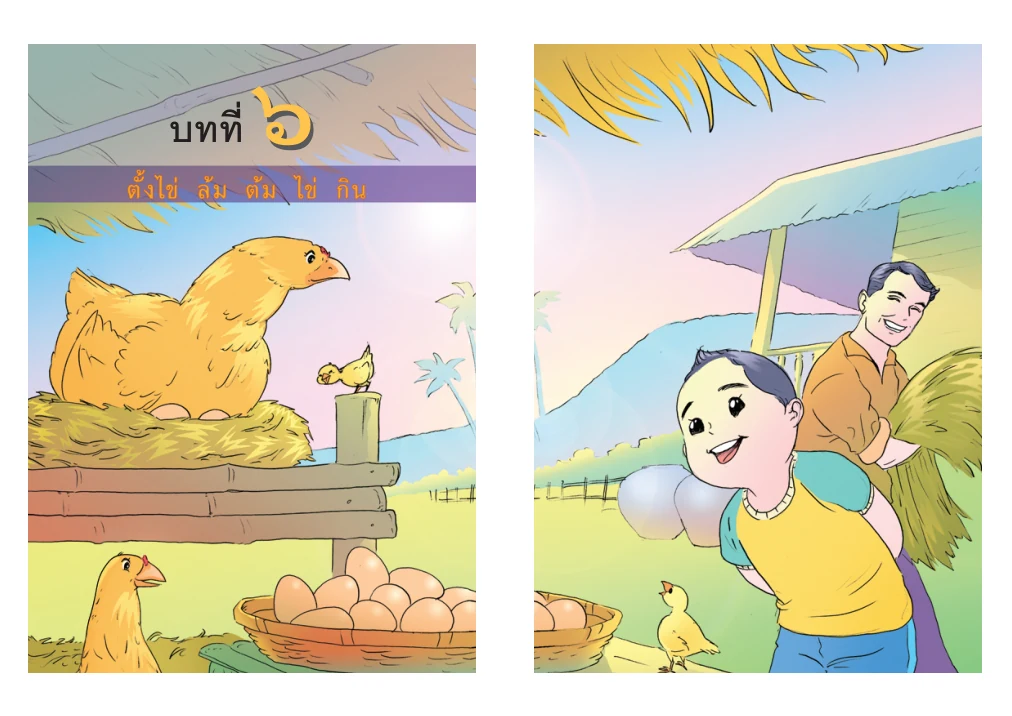
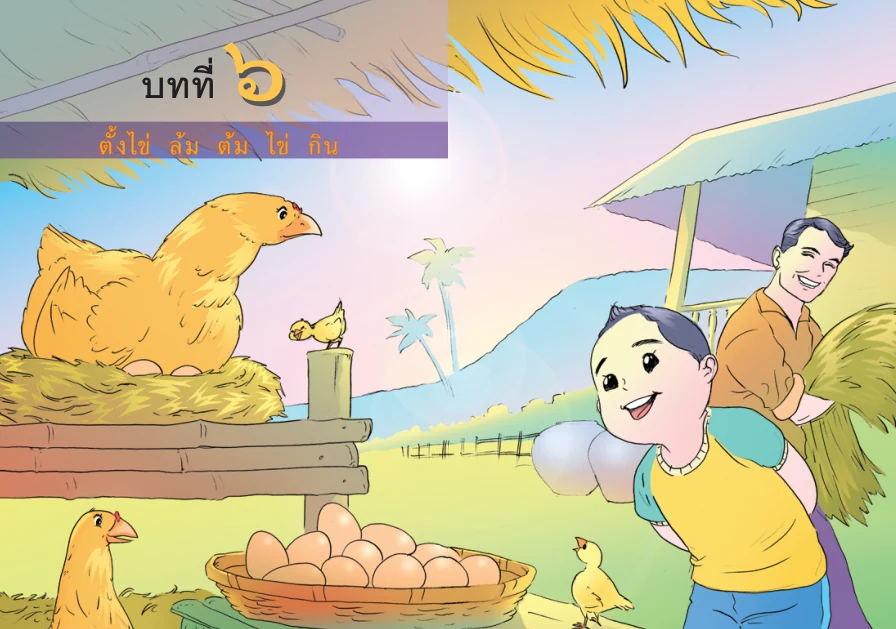
Remove white gutters from all literature cover spreads

diff --git a/P1/index.html b/P1/index.html
@@ -14,7 +14,7 @@
   <link rel="stylesheet" href="/is/P1/child-ui.css?v=20260924-1">
   <script src="/is/P1/child-ui.js?v=20260925-preparation-1" defer></script>
   <link rel="stylesheet" href="unit1-prototype.css?v=20260924-allchapters-1">
-  <link rel="stylesheet" href="literature/pairs.css?v=2">
+  <link rel="stylesheet" href="literature/pairs.css?v=3">
 <script src="course-flow.js?v=20260925-flow-2"></script></head>
 <body>
   <div id="preloadScreen" class="preload-screen preload-complete" role="status" aria-live="polite" aria-busy="false" hidden>
@@ -56,14 +56,14 @@
         <article class="unit-card featured" style="--accent:#58a6d8"><div class="unit-number">01</div><a class="unit-cover" href="lesson.html?unit=1" aria-label="เปิดบท ใบโบก ใบบัว"><img src="book/unit1-cover.webp" alt="ภาพปกคู่บทที่ 1 ใบโบก ใบบัว" loading="lazy"></a><div class="unit-content"><span class="unit-status ready">พร้อมใช้งาน</span><h3>ใบโบก ใบบัว</h3><p>ปูพื้นพยัญชนะไทย บัตรคำ ฟังเรื่อง จับคู่คำกับภาพ และเกมตรวจความเข้าใจ</p><div class="lesson-row"><span>แผนที่ 1</span><strong>รู้จักคำ นำเรื่อง</strong><div class="lesson-actions"><a href="lesson.html?unit=1">เข้าเรียน →</a></div></div></div><div class="workbook-pair"><a href="workbook/?unit=1"><img src="workbook/assets/volume-1.webp" alt="ปกแบบฝึกเล่ม 1" loading="lazy"><span>แบบฝึกเล่ม 1 · บทที่ 1</span></a></div></article>
         <article class="unit-card featured" style="--accent:#6854d9"><div class="unit-number">02</div><a class="unit-cover" href="lesson.html?unit=2" aria-label="เปิดบท ภูผา"><img src="book/unit2-cover.webp" alt="ภาพปกคู่บทที่ 2 ภูผา" loading="lazy"></a><div class="unit-content"><span class="unit-status ready">พร้อมใช้งาน</span><h3>ภูผา</h3><p>รู้จักคำ นำเรื่อง ผ่านเพลง เกมทายภาพ บิงโก และขบวนรถไฟประโยค</p><div class="lesson-row"><span>แผนที่ 1</span><strong>รู้จักคำ นำเรื่อง</strong><div class="lesson-actions"><a class="plan-link" href="plan/02/แผนที่1.docx" download>📄 แผนการสอน</a><a href="lesson.html?unit=2">เข้าเรียน →</a></div></div></div><div class="workbook-pair"><a href="workbook/?unit=2"><img src="workbook/assets/volume-1.webp" alt="ปกแบบฝึกเล่ม 1" loading="lazy"><span>แบบฝึกเล่ม 1 · บทที่ 2</span></a></div></article>
         <article class="unit-card ready-card" style="--accent:#ed8d70"><div class="unit-number">03</div><a class="unit-cover" href="lesson.html?unit=3" aria-label="เปิดบท เพื่อนกัน"><img src="book/unit3-cover.webp" alt="ภาพปกคู่บทที่ 3 เพื่อนกัน" loading="lazy"></a><div class="unit-content"><span class="unit-status ready">พร้อมใช้งาน</span><h3>เพื่อนกัน</h3><p>คำจากบท: ไก่ ลูกช้าง ชู จ้อง ร้อง เรียก เพื่อน เด็ก และฝึกสระ เอ–แอ</p><div class="lesson-row"><span>แผนที่ 1</span><strong>รู้จักคำ นำเรื่อง</strong><div class="lesson-actions"><a href="lesson.html?unit=3">เข้าเรียน →</a></div></div></div><div class="workbook-pair"><a href="workbook/?unit=3"><img src="workbook/assets/volume-1.webp" alt="ปกแบบฝึกเล่ม 1" loading="lazy"><span>แบบฝึกเล่ม 1 · บทที่ 3</span></a></div></article>
-        <article class="unit-card ready-card" style="--accent:#36a489"><div class="unit-number">04</div><a class="unit-cover" href="lesson.html?unit=4" aria-label="เปิดบท ตามหา"><img src="book/unit4-cover.webp" alt="ภาพปกคู่บทที่ 4 ตามหา" loading="lazy"></a><div class="unit-content"><span class="unit-status ready">พร้อมใช้งาน</span><h3>ตามหา</h3><p>คำจากบท: คอ ผูก ลาน อ้อย เล่นน้ำ ลำธาร กระดิ่ง กระพรวน และฝึกสระ โอ–ไอ–ใอ</p><div class="lesson-row"><span>แผนที่ 1</span><strong>รู้จักคำ นำเรื่อง</strong><div class="lesson-actions"><a href="lesson.html?unit=4">เข้าเรียน →</a></div></div></div><div class="literature-pair"><a href="literature/?chapter=1"><img src="literature/assets/cover-1.webp" alt="ปกคู่บทวรรณคดีลำนำ" loading="lazy">📖 วรรณคดีลำนำ 1 · เจ้าเนื้ออ่อน เอย</a></div><div class="workbook-pair"><a href="workbook/?unit=4"><img src="workbook/assets/volume-1.webp" alt="ปกแบบฝึกเล่ม 1" loading="lazy"><span>แบบฝึกเล่ม 1 · บทที่ 4</span></a></div></article>
-        <article class="unit-card ready-card" style="--accent:#e4aa32"><div class="unit-number">05</div><a class="unit-cover" href="lesson.html?unit=5" aria-label="เปิดบท ไปโรงเรียน"><img src="book/unit5-cover.webp" alt="ภาพปกคู่บทที่ 5 ไปโรงเรียน" loading="lazy"></a><div class="unit-content"><span class="unit-status ready">พร้อมใช้งาน</span><h3>ไปโรงเรียน</h3><p>คำจากบท: เข้า หิ้ว เรียน ปิ่นโต กระเป๋า โรงเรียน หนังสือ โบกมือ และฝึกสระ อือ</p><div class="lesson-row"><span>แผนที่ 1</span><strong>รู้จักคำ นำเรื่อง</strong><div class="lesson-actions"><a href="lesson.html?unit=5">เข้าเรียน →</a></div></div></div><div class="literature-pair"><a href="literature/?chapter=2"><img src="literature/assets/cover-2.webp" alt="ปกคู่บทวรรณคดีลำนำ" loading="lazy">📖 วรรณคดีลำนำ 2 · มา เล่น กัน ไหม</a></div><div class="workbook-pair"><a href="workbook/?unit=5"><img src="workbook/assets/volume-1.webp" alt="ปกแบบฝึกเล่ม 1" loading="lazy"><span>แบบฝึกเล่ม 1 · บทที่ 5</span></a></div></article>
-        <article class="unit-card ready-card" style="--accent:#4b9ed8"><div class="unit-number">06</div><a class="unit-cover" href="lesson.html?unit=6" aria-label="เปิดบท โรงเรียนลูกช้าง"><img src="book/unit6-cover.webp" alt="ภาพปกคู่บทที่ 6 โรงเรียนลูกช้าง" loading="lazy"></a><div class="unit-content"><span class="unit-status ready">พร้อมใช้งาน</span><h3>โรงเรียนลูกช้าง</h3><p>คำจากบท: แถว เชือก กล้วย หมู่บ้าน ควาญช้าง วงกลม และฝึกสระ เอีย–อัว</p><div class="lesson-row"><span>แผนที่ 1</span><strong>รู้จักคำ นำเรื่อง</strong><div class="lesson-actions"><a href="lesson.html?unit=6">เข้าเรียน →</a></div></div></div><div class="literature-pair"><a href="literature/?chapter=3"><img src="literature/assets/cover-3.webp" alt="ปกคู่บทวรรณคดีลำนำ" loading="lazy">📖 วรรณคดีลำนำ 3 · ของ เธอ ของ ฉัน</a></div><div class="workbook-pair"><a href="workbook/?unit=6"><img src="workbook/assets/volume-1.webp" alt="ปกแบบฝึกเล่ม 1" loading="lazy"><span>แบบฝึกเล่ม 1 · บทที่ 6</span></a></div></article>
-        <article class="unit-card ready-card" style="--accent:#e96d93"><div class="unit-number">07</div><a class="unit-cover seamless-cover" href="lesson.html?unit=7" aria-label="เปิดบท เพื่อนรัก เพื่อนเล่น"><span class="cover-half"><img src="book/unit7-cover.webp" alt="ภาพปกคู่บทที่ 7 เพื่อนรัก เพื่อนเล่น" loading="lazy"></span><span class="cover-half cover-right" aria-hidden="true"><img src="book/unit7-cover.webp" alt="" loading="lazy"></span></a><div class="unit-content"><span class="unit-status ready">พร้อมใช้งาน</span><h3>เพื่อนรัก เพื่อนเล่น</h3><p>รู้จักคำ ฝึกอ่านคาราโอเกะ อ่านคล่องร้องเล่น และเกมทบทวน</p><div class="lesson-row"><span>บทที่ 7</span><strong>ภาพและบทอ่านจากต้นฉบับ</strong><div class="lesson-actions"><a href="lesson.html?unit=7">เข้าเรียน →</a></div></div></div><div class="literature-pair"><a href="literature/?chapter=4"><img src="literature/assets/cover-4.webp" alt="ปกคู่บทวรรณคดีลำนำ" loading="lazy">📖 วรรณคดีลำนำ 4 · ฝน ตก แดด ออก</a></div><div class="workbook-pair"><a href="workbook/?unit=7"><img src="workbook/assets/volume-2.webp" alt="ปกแบบฝึกเล่ม 2" loading="lazy"><span>แบบฝึกเล่ม 2 · บทที่ 7</span></a></div></article>
-        <article class="unit-card ready-card" style="--accent:#9471d4"><div class="unit-number">08</div><a class="unit-cover seamless-cover" href="lesson.html?unit=8" aria-label="เปิดบท พูดเพราะ"><span class="cover-half"><img src="book/unit8-cover.webp" alt="ภาพปกคู่บทที่ 8 พูดเพราะ" loading="lazy"></span><span class="cover-half cover-right" aria-hidden="true"><img src="book/unit8-cover.webp" alt="" loading="lazy"></span></a><div class="unit-content"><span class="unit-status ready">พร้อมใช้งาน</span><h3>พูดเพราะ</h3><p>รู้จักคำ ฝึกอ่านคาราโอเกะ อ่านคล่องร้องเล่น และเกมทบทวน</p><div class="lesson-row"><span>บทที่ 8</span><strong>ภาพและบทอ่านจากต้นฉบับ</strong><div class="lesson-actions"><a href="lesson.html?unit=8">เข้าเรียน →</a></div></div></div><div class="literature-pair"><a href="literature/?chapter=5"><img src="literature/assets/cover-5.webp" alt="ปกคู่บทวรรณคดีลำนำ" loading="lazy">📖 วรรณคดีลำนำ 5 · เรา รัก เมืองไทย</a></div><div class="workbook-pair"><a href="workbook/?unit=8"><img src="workbook/assets/volume-2.webp" alt="ปกแบบฝึกเล่ม 2" loading="lazy"><span>แบบฝึกเล่ม 2 · บทที่ 8</span></a></div></article>
-        <article class="unit-card ready-card" style="--accent:#43aa72"><div class="unit-number">09</div><a class="unit-cover seamless-cover" href="lesson.html?unit=9" aria-label="เปิดบท เกือบไป"><span class="cover-half"><img src="book/unit9-cover.webp" alt="ภาพปกคู่บทที่ 9 เกือบไป" loading="lazy"></span><span class="cover-half cover-right" aria-hidden="true"><img src="book/unit9-cover.webp" alt="" loading="lazy"></span></a><div class="unit-content"><span class="unit-status ready">พร้อมใช้งาน</span><h3>เกือบไป</h3><p>รู้จักคำ ฝึกอ่านคาราโอเกะ อ่านคล่องร้องเล่น และเกมทบทวน</p><div class="lesson-row"><span>บทที่ 9</span><strong>ภาพและบทอ่านจากต้นฉบับ</strong><div class="lesson-actions"><a href="lesson.html?unit=9">เข้าเรียน →</a></div></div></div><div class="literature-pair"><a href="literature/?chapter=6"><img src="literature/assets/cover-6.webp" alt="ปกคู่บทวรรณคดีลำนำ" loading="lazy">📖 วรรณคดีลำนำ 6 · ตั้งไข่ ล้ม ต้ม ไข่ กิน</a></div><div class="workbook-pair"><a href="workbook/?unit=9"><img src="workbook/assets/volume-2.webp" alt="ปกแบบฝึกเล่ม 2" loading="lazy"><span>แบบฝึกเล่ม 2 · บทที่ 9</span></a></div></article>
-        <article class="unit-card ready-card" style="--accent:#df7b5e"><div class="unit-number">10</div><a class="unit-cover seamless-cover" href="lesson.html?unit=10" aria-label="เปิดบท เพื่อนรู้ใจ"><span class="cover-half"><img src="book/unit10-cover.webp" alt="ภาพปกคู่บทที่ 10 เพื่อนรู้ใจ" loading="lazy"></span><span class="cover-half cover-right" aria-hidden="true"><img src="book/unit10-cover.webp" alt="" loading="lazy"></span></a><div class="unit-content"><span class="unit-status ready">พร้อมใช้งาน</span><h3>เพื่อนรู้ใจ</h3><p>รู้จักคำ ฝึกอ่านคาราโอเกะ อ่านคล่องร้องเล่น และเกมทบทวน</p><div class="lesson-row"><span>บทที่ 10</span><strong>ภาพและบทอ่านจากต้นฉบับ</strong><div class="lesson-actions"><a href="lesson.html?unit=10">เข้าเรียน →</a></div></div></div><div class="literature-pair"><a href="literature/?chapter=7"><img src="literature/assets/cover-7.webp" alt="ปกคู่บทวรรณคดีลำนำ" loading="lazy">📖 วรรณคดีลำนำ 7 · แมว เหมียว</a></div><div class="workbook-pair"><a href="workbook/?unit=10"><img src="workbook/assets/volume-2.webp" alt="ปกแบบฝึกเล่ม 2" loading="lazy"><span>แบบฝึกเล่ม 2 · บทที่ 10</span></a></div></article>
-        <article class="unit-card ready-card" style="--accent:#5f9bc6"><div class="unit-number">11</div><a class="unit-cover seamless-cover" href="lesson.html?unit=11" aria-label="เปิดบท ช้างน้อยน่ารัก"><span class="cover-half"><img src="book/unit11-cover.webp" alt="ภาพปกคู่บทที่ 11 ช้างน้อยน่ารัก" loading="lazy"></span><span class="cover-half cover-right" aria-hidden="true"><img src="book/unit11-cover.webp" alt="" loading="lazy"></span></a><div class="unit-content"><span class="unit-status ready">พร้อมใช้งาน</span><h3>ช้างน้อยน่ารัก</h3><p>รู้จักคำ ฝึกอ่านคาราโอเกะ อ่านคล่องร้องเล่น และเกมทบทวน</p><div class="lesson-row"><span>บทที่ 11</span><strong>ภาพและบทอ่านจากต้นฉบับ</strong><div class="lesson-actions"><a href="lesson.html?unit=11">เข้าเรียน →</a></div></div></div><div class="literature-pair"><a href="literature/?chapter=8"><img src="literature/assets/cover-8.webp" alt="ปกคู่บทวรรณคดีลำนำ" loading="lazy">📖 วรรณคดีลำนำ 8 · กระต่าย กับ เต่า</a></div><div class="workbook-pair"><a href="workbook/?unit=11"><img src="workbook/assets/volume-2.webp" alt="ปกแบบฝึกเล่ม 2" loading="lazy"><span>แบบฝึกเล่ม 2 · บทที่ 11</span></a></div></article>
+        <article class="unit-card ready-card" style="--accent:#36a489"><div class="unit-number">04</div><a class="unit-cover" href="lesson.html?unit=4" aria-label="เปิดบท ตามหา"><img src="book/unit4-cover.webp" alt="ภาพปกคู่บทที่ 4 ตามหา" loading="lazy"></a><div class="unit-content"><span class="unit-status ready">พร้อมใช้งาน</span><h3>ตามหา</h3><p>คำจากบท: คอ ผูก ลาน อ้อย เล่นน้ำ ลำธาร กระดิ่ง กระพรวน และฝึกสระ โอ–ไอ–ใอ</p><div class="lesson-row"><span>แผนที่ 1</span><strong>รู้จักคำ นำเรื่อง</strong><div class="lesson-actions"><a href="lesson.html?unit=4">เข้าเรียน →</a></div></div></div><div class="literature-pair"><a href="literature/?chapter=1"><img src="literature/assets/cover-1.webp?v=2" alt="ปกคู่บทวรรณคดีลำนำ" loading="lazy">📖 วรรณคดีลำนำ 1 · เจ้าเนื้ออ่อน เอย</a></div><div class="workbook-pair"><a href="workbook/?unit=4"><img src="workbook/assets/volume-1.webp" alt="ปกแบบฝึกเล่ม 1" loading="lazy"><span>แบบฝึกเล่ม 1 · บทที่ 4</span></a></div></article>
+        <article class="unit-card ready-card" style="--accent:#e4aa32"><div class="unit-number">05</div><a class="unit-cover" href="lesson.html?unit=5" aria-label="เปิดบท ไปโรงเรียน"><img src="book/unit5-cover.webp" alt="ภาพปกคู่บทที่ 5 ไปโรงเรียน" loading="lazy"></a><div class="unit-content"><span class="unit-status ready">พร้อมใช้งาน</span><h3>ไปโรงเรียน</h3><p>คำจากบท: เข้า หิ้ว เรียน ปิ่นโต กระเป๋า โรงเรียน หนังสือ โบกมือ และฝึกสระ อือ</p><div class="lesson-row"><span>แผนที่ 1</span><strong>รู้จักคำ นำเรื่อง</strong><div class="lesson-actions"><a href="lesson.html?unit=5">เข้าเรียน →</a></div></div></div><div class="literature-pair"><a href="literature/?chapter=2"><img src="literature/assets/cover-2.webp?v=2" alt="ปกคู่บทวรรณคดีลำนำ" loading="lazy">📖 วรรณคดีลำนำ 2 · มา เล่น กัน ไหม</a></div><div class="workbook-pair"><a href="workbook/?unit=5"><img src="workbook/assets/volume-1.webp" alt="ปกแบบฝึกเล่ม 1" loading="lazy"><span>แบบฝึกเล่ม 1 · บทที่ 5</span></a></div></article>
+        <article class="unit-card ready-card" style="--accent:#4b9ed8"><div class="unit-number">06</div><a class="unit-cover" href="lesson.html?unit=6" aria-label="เปิดบท โรงเรียนลูกช้าง"><img src="book/unit6-cover.webp" alt="ภาพปกคู่บทที่ 6 โรงเรียนลูกช้าง" loading="lazy"></a><div class="unit-content"><span class="unit-status ready">พร้อมใช้งาน</span><h3>โรงเรียนลูกช้าง</h3><p>คำจากบท: แถว เชือก กล้วย หมู่บ้าน ควาญช้าง วงกลม และฝึกสระ เอีย–อัว</p><div class="lesson-row"><span>แผนที่ 1</span><strong>รู้จักคำ นำเรื่อง</strong><div class="lesson-actions"><a href="lesson.html?unit=6">เข้าเรียน →</a></div></div></div><div class="literature-pair"><a href="literature/?chapter=3"><img src="literature/assets/cover-3.webp?v=2" alt="ปกคู่บทวรรณคดีลำนำ" loading="lazy">📖 วรรณคดีลำนำ 3 · ของ เธอ ของ ฉัน</a></div><div class="workbook-pair"><a href="workbook/?unit=6"><img src="workbook/assets/volume-1.webp" alt="ปกแบบฝึกเล่ม 1" loading="lazy"><span>แบบฝึกเล่ม 1 · บทที่ 6</span></a></div></article>
+        <article class="unit-card ready-card" style="--accent:#e96d93"><div class="unit-number">07</div><a class="unit-cover seamless-cover" href="lesson.html?unit=7" aria-label="เปิดบท เพื่อนรัก เพื่อนเล่น"><span class="cover-half"><img src="book/unit7-cover.webp" alt="ภาพปกคู่บทที่ 7 เพื่อนรัก เพื่อนเล่น" loading="lazy"></span><span class="cover-half cover-right" aria-hidden="true"><img src="book/unit7-cover.webp" alt="" loading="lazy"></span></a><div class="unit-content"><span class="unit-status ready">พร้อมใช้งาน</span><h3>เพื่อนรัก เพื่อนเล่น</h3><p>รู้จักคำ ฝึกอ่านคาราโอเกะ อ่านคล่องร้องเล่น และเกมทบทวน</p><div class="lesson-row"><span>บทที่ 7</span><strong>ภาพและบทอ่านจากต้นฉบับ</strong><div class="lesson-actions"><a href="lesson.html?unit=7">เข้าเรียน →</a></div></div></div><div class="literature-pair"><a href="literature/?chapter=4"><img src="literature/assets/cover-4.webp?v=2" alt="ปกคู่บทวรรณคดีลำนำ" loading="lazy">📖 วรรณคดีลำนำ 4 · ฝน ตก แดด ออก</a></div><div class="workbook-pair"><a href="workbook/?unit=7"><img src="workbook/assets/volume-2.webp" alt="ปกแบบฝึกเล่ม 2" loading="lazy"><span>แบบฝึกเล่ม 2 · บทที่ 7</span></a></div></article>
+        <article class="unit-card ready-card" style="--accent:#9471d4"><div class="unit-number">08</div><a class="unit-cover seamless-cover" href="lesson.html?unit=8" aria-label="เปิดบท พูดเพราะ"><span class="cover-half"><img src="book/unit8-cover.webp" alt="ภาพปกคู่บทที่ 8 พูดเพราะ" loading="lazy"></span><span class="cover-half cover-right" aria-hidden="true"><img src="book/unit8-cover.webp" alt="" loading="lazy"></span></a><div class="unit-content"><span class="unit-status ready">พร้อมใช้งาน</span><h3>พูดเพราะ</h3><p>รู้จักคำ ฝึกอ่านคาราโอเกะ อ่านคล่องร้องเล่น และเกมทบทวน</p><div class="lesson-row"><span>บทที่ 8</span><strong>ภาพและบทอ่านจากต้นฉบับ</strong><div class="lesson-actions"><a href="lesson.html?unit=8">เข้าเรียน →</a></div></div></div><div class="literature-pair"><a href="literature/?chapter=5"><img src="literature/assets/cover-5.webp?v=2" alt="ปกคู่บทวรรณคดีลำนำ" loading="lazy">📖 วรรณคดีลำนำ 5 · เรา รัก เมืองไทย</a></div><div class="workbook-pair"><a href="workbook/?unit=8"><img src="workbook/assets/volume-2.webp" alt="ปกแบบฝึกเล่ม 2" loading="lazy"><span>แบบฝึกเล่ม 2 · บทที่ 8</span></a></div></article>
+        <article class="unit-card ready-card" style="--accent:#43aa72"><div class="unit-number">09</div><a class="unit-cover seamless-cover" href="lesson.html?unit=9" aria-label="เปิดบท เกือบไป"><span class="cover-half"><img src="book/unit9-cover.webp" alt="ภาพปกคู่บทที่ 9 เกือบไป" loading="lazy"></span><span class="cover-half cover-right" aria-hidden="true"><img src="book/unit9-cover.webp" alt="" loading="lazy"></span></a><div class="unit-content"><span class="unit-status ready">พร้อมใช้งาน</span><h3>เกือบไป</h3><p>รู้จักคำ ฝึกอ่านคาราโอเกะ อ่านคล่องร้องเล่น และเกมทบทวน</p><div class="lesson-row"><span>บทที่ 9</span><strong>ภาพและบทอ่านจากต้นฉบับ</strong><div class="lesson-actions"><a href="lesson.html?unit=9">เข้าเรียน →</a></div></div></div><div class="literature-pair"><a href="literature/?chapter=6"><img src="literature/assets/cover-6.webp?v=2" alt="ปกคู่บทวรรณคดีลำนำ" loading="lazy">📖 วรรณคดีลำนำ 6 · ตั้งไข่ ล้ม ต้ม ไข่ กิน</a></div><div class="workbook-pair"><a href="workbook/?unit=9"><img src="workbook/assets/volume-2.webp" alt="ปกแบบฝึกเล่ม 2" loading="lazy"><span>แบบฝึกเล่ม 2 · บทที่ 9</span></a></div></article>
+        <article class="unit-card ready-card" style="--accent:#df7b5e"><div class="unit-number">10</div><a class="unit-cover seamless-cover" href="lesson.html?unit=10" aria-label="เปิดบท เพื่อนรู้ใจ"><span class="cover-half"><img src="book/unit10-cover.webp" alt="ภาพปกคู่บทที่ 10 เพื่อนรู้ใจ" loading="lazy"></span><span class="cover-half cover-right" aria-hidden="true"><img src="book/unit10-cover.webp" alt="" loading="lazy"></span></a><div class="unit-content"><span class="unit-status ready">พร้อมใช้งาน</span><h3>เพื่อนรู้ใจ</h3><p>รู้จักคำ ฝึกอ่านคาราโอเกะ อ่านคล่องร้องเล่น และเกมทบทวน</p><div class="lesson-row"><span>บทที่ 10</span><strong>ภาพและบทอ่านจากต้นฉบับ</strong><div class="lesson-actions"><a href="lesson.html?unit=10">เข้าเรียน →</a></div></div></div><div class="literature-pair"><a href="literature/?chapter=7"><img src="literature/assets/cover-7.webp?v=2" alt="ปกคู่บทวรรณคดีลำนำ" loading="lazy">📖 วรรณคดีลำนำ 7 · แมว เหมียว</a></div><div class="workbook-pair"><a href="workbook/?unit=10"><img src="workbook/assets/volume-2.webp" alt="ปกแบบฝึกเล่ม 2" loading="lazy"><span>แบบฝึกเล่ม 2 · บทที่ 10</span></a></div></article>
+        <article class="unit-card ready-card" style="--accent:#5f9bc6"><div class="unit-number">11</div><a class="unit-cover seamless-cover" href="lesson.html?unit=11" aria-label="เปิดบท ช้างน้อยน่ารัก"><span class="cover-half"><img src="book/unit11-cover.webp" alt="ภาพปกคู่บทที่ 11 ช้างน้อยน่ารัก" loading="lazy"></span><span class="cover-half cover-right" aria-hidden="true"><img src="book/unit11-cover.webp" alt="" loading="lazy"></span></a><div class="unit-content"><span class="unit-status ready">พร้อมใช้งาน</span><h3>ช้างน้อยน่ารัก</h3><p>รู้จักคำ ฝึกอ่านคาราโอเกะ อ่านคล่องร้องเล่น และเกมทบทวน</p><div class="lesson-row"><span>บทที่ 11</span><strong>ภาพและบทอ่านจากต้นฉบับ</strong><div class="lesson-actions"><a href="lesson.html?unit=11">เข้าเรียน →</a></div></div></div><div class="literature-pair"><a href="literature/?chapter=8"><img src="literature/assets/cover-8.webp?v=2" alt="ปกคู่บทวรรณคดีลำนำ" loading="lazy">📖 วรรณคดีลำนำ 8 · กระต่าย กับ เต่า</a></div><div class="workbook-pair"><a href="workbook/?unit=11"><img src="workbook/assets/volume-2.webp" alt="ปกแบบฝึกเล่ม 2" loading="lazy"><span>แบบฝึกเล่ม 2 · บทที่ 11</span></a></div></article>
         <article class="unit-card ready-card" style="--accent:#ef9353"><div class="unit-number">12</div><a class="unit-cover seamless-cover" href="lesson.html?unit=12" aria-label="เปิดบท วันสงกรานต์"><span class="cover-half"><img src="book/unit12-cover.webp" alt="ภาพปกคู่บทที่ 12 วันสงกรานต์" loading="lazy"></span><span class="cover-half cover-right" aria-hidden="true"><img src="book/unit12-cover.webp" alt="" loading="lazy"></span></a><div class="unit-content"><span class="unit-status ready">พร้อมใช้งาน</span><h3>วันสงกรานต์</h3><p>รู้จักคำ ฝึกอ่านคาราโอเกะ อ่านคล่องร้องเล่น และเกมทบทวน</p><div class="lesson-row"><span>บทที่ 12</span><strong>ภาพและบทอ่านจากต้นฉบับ</strong><div class="lesson-actions"><a href="lesson.html?unit=12">เข้าเรียน →</a></div></div></div><div class="workbook-pair"><a href="workbook/?unit=12"><img src="workbook/assets/volume-2.webp" alt="ปกแบบฝึกเล่ม 2" loading="lazy"><span>แบบฝึกเล่ม 2 · บทที่ 12</span></a></div></article>
       </div>
     </section>

diff --git a/P1/literature/reader.js b/P1/literature/reader.js
@@ -19,7 +19,8 @@ function speak(items){
 function readable(w){return /[ก-๛A-Za-z0-9]/.test(w.text)}
 async function render(){
  stop();const ticket=++renderId,isCover=index<2,source=chapter.pages[index];
- const p=isCover?{...chapter.pages[0],width:1190,lines:chapter.pages.slice(0,2).flatMap((pg,i)=>pg.lines.map(l=>({...l,words:l.words.map(w=>({...w,box:w.box.map((v,k)=>v+(k%2===0?595*i:0)),highlightBox:(w.highlightBox||w.box).map((v,k)=>v+(k%2===0?595*i:0)),chars:w.chars.map(c=>[c[0],c[1]+595*i,...c.slice(2)])}))})))}:source;words=[];
+ const top=chapter.id===7?49:52;
+ const p=isCover?{...chapter.pages[0],width:1052,height:739,lines:chapter.pages.slice(0,2).flatMap((pg,i)=>pg.lines.map(l=>({...l,words:l.words.map(w=>({...w,box:w.box.map((v,k)=>v+(k%2===0?526*i-34:-top)),highlightBox:(w.highlightBox||w.box).map((v,k)=>v+(k%2===0?526*i-34:-top)),chars:w.chars.map(c=>[c[0],c[1]+526*i-34,c[2]-top,...c.slice(3)])}))})))}:source;words=[];
  $('#paper').classList.toggle('cover-spread',isCover);
  const url=new URL(location.href);url.searchParams.set('chapter',chapter.id);url.searchParams.set('page',index+1);history.replaceState(null,'',url);
  $('#chapterTitle').textContent=`บทที่ ${th(chapter.id)} · ${chapter.title}`;document.title=chapter.title+' · วรรณคดีลำนำ ป.๑';
@@ -33,11 +34,15 @@ async function render(){
  if(plain){
   const wrap=document.createElement('div');wrap.className='plain';
   for(const line of p.lines.filter(l=>l.read)){const para=document.createElement('p');for(const w of line.words.filter(readable)){const b=document.createElement('button');b.textContent=w.text;const item={text:w.text,node:b};b.onclick=()=>speak([item]);words.push(item);para.append(b)}if(para.childElementCount){words[words.length-1].lineEnd=true;wrap.append(para)}}
-  if(!words.length){const img=document.createElement('img');img.src=isCover?`assets/cover-${chapter.id}.webp`:`assets/page-${p.pdfPage}.webp`;img.className='plain-cover';img.alt='ภาพประกอบ '+chapter.title;wrap.append(img);const title=document.createElement('h2');title.textContent=chapter.title;wrap.append(title)}
+  if(!words.length){const img=document.createElement('img');img.src=isCover?`assets/cover-${chapter.id}.webp?v=2`:`assets/page-${p.pdfPage}.webp`;img.className='plain-cover';img.alt='ภาพประกอบ '+chapter.title;wrap.append(img);const title=document.createElement('h2');title.textContent=chapter.title;wrap.append(title)}
   $('#pageContent').append(wrap);return;
  }
- const svg=el('svg',{viewBox:`0 0 ${p.width||595} 842`,class:'source-page','aria-label':chapter.title+' หน้าที่ '+(index+1)});svg.style.visibility='hidden';
- for(const [i,pg] of (isCover?chapter.pages.slice(0,2):[p]).entries())svg.append(el('image',{href:`assets/page-${pg.pdfPage}.webp`,x:595*i,y:0,width:595,height:842,'aria-hidden':'true'}));
+ const svg=el('svg',{viewBox:`0 0 ${p.width||595} ${p.height||842}`,class:'source-page','aria-label':chapter.title+' หน้าที่ '+(index+1)});svg.style.visibility='hidden';
+ for(const [i,pg] of (isCover?chapter.pages.slice(0,2):[p]).entries()){
+  const attrs={href:`assets/page-${pg.pdfPage}.webp`,x:isCover?526*i-34:0,y:isCover?-top:0,width:595,height:842,'aria-hidden':'true'};
+  if(isCover){const clip=el('clipPath',{id:`coverClip${i}`});clip.append(el('rect',{x:526*i,y:0,width:526,height:739}));svg.append(clip);attrs['clip-path']=`url(#coverClip${i})`}
+  svg.append(el('image',attrs));
+ }
  const needed=new Map();
  for(const line of p.lines){
   for(const w of line.words){

diff --git a/P1/literature/index.html b/P1/literature/index.html
@@ -1,4 +1,4 @@
-<!doctype html><html lang="th"><head><meta charset="utf-8"><meta name="viewport" content="width=device-width,initial-scale=1"><meta name="theme-color" content="#276b76"><title>วรรณคดีลำนำ · ภาษาไทย ป.๑</title><link rel="stylesheet" href="reader.css?v=2"><script src="reader.js?v=2" defer></script><script src="../course-flow.js?v=20260925-flow-2"></script></head><body>
+<!doctype html><html lang="th"><head><meta charset="utf-8"><meta name="viewport" content="width=device-width,initial-scale=1"><meta name="theme-color" content="#276b76"><title>วรรณคดีลำนำ · ภาษาไทย ป.๑</title><link rel="stylesheet" href="reader.css?v=2"><script src="reader.js?v=3" defer></script><script src="../course-flow.js?v=20260925-flow-2"></script></head><body>
 <header><button id="openMenu" aria-label="เปิดเมนู">☰</button><h1 id="chapterTitle">วรรณคดีลำนำ</h1><button id="read" aria-label="ฟังหน้านี้">🔊</button></header>
 <main><div class="reader-tools"><a id="paired" href="../index.html">ภาษาพาทีบทคู่กัน</a><button id="viewMode" aria-pressed="false">ข้อความใหญ่</button><label>ความเร็ว <select id="speed"><option value="0.75">ช้า</option><option value="0.85" selected>ช้าพอดี</option><option value="1">ปกติ</option></select></label></div><p id="status" role="status">กำลังเปิดหนังสือ…</p><article id="paper" class="book-paper"><div id="pageContent"></div></article><p id="source"></p></main>
 <nav class="pager" aria-label="เปลี่ยนหน้า"><button id="prev" aria-label="หน้าก่อน">‹</button><span id="counter"></span><button id="next" aria-label="หน้าถัดไป">›</button></nav>

diff --git a/P1/literature/pairs.css b/P1/literature/pairs.css
@@ -1,5 +1,5 @@
 .literature-pair{grid-column:1/-1;flex-basis:100%;width:100%;margin-top:10px}.literature-pair a{display:block;padding:10px 12px;line-height:1.5;font-size:.9rem;background:#eff8f4;border-radius:12px;color:#236777;text-decoration:none}.literature-pair a:hover{background:#d9efe5}.literature-pair a:focus-visible{outline:3px solid #b77200}
 
-.literature-pair a{display:flex!important;flex-direction:column;gap:8px}.literature-pair img{display:block;width:100%;height:auto;aspect-ratio:1190/842;object-fit:contain;border-radius:10px;background:white}.workbook-pair{padding:12px 20px 18px}.workbook-pair a{display:flex;gap:14px;align-items:center;text-decoration:none;color:#21695e;background:#ecf7ef;border:1px solid #cde5d3;border-radius:12px;padding:12px;font-weight:700}.workbook-pair img{width:64px;height:88px;object-fit:contain}.workbook-pair a:hover{background:#def0df}
+.literature-pair a{display:flex!important;flex-direction:column;gap:8px}.literature-pair img{display:block;width:100%;height:auto;aspect-ratio:1052/739;object-fit:contain;border-radius:10px;background:white}.workbook-pair{padding:12px 20px 18px}.workbook-pair a{display:flex;gap:14px;align-items:center;text-decoration:none;color:#21695e;background:#ecf7ef;border:1px solid #cde5d3;border-radius:12px;padding:12px;font-weight:700}.workbook-pair img{width:64px;height:88px;object-fit:contain}.workbook-pair a:hover{background:#def0df}
 
 .unit-card>.literature-pair{padding:0 20px;margin:8px 0 0}.unit-card>.literature-pair a{width:100%}

diff --git a/tools/build_workbook.py b/tools/build_workbook.py
@@ -31,7 +31,7 @@ lit=fitz.open(source/'วรรณคดีลำนำ.pdf')
 for c in json.loads((root/'literature/book.json').read_text())['chapters']:
  images=[]
  for pg in c['pages'][:2]:
-  pix=lit[pg['pdfPage']-1].get_pixmap(matrix=fitz.Matrix(.85,.85),alpha=False)
+  pix=lit[pg['pdfPage']-1].get_pixmap(matrix=fitz.Matrix(.85,.85),clip=fitz.Rect(34,49 if c['id']==7 else 52,560,788 if c['id']==7 else 791),alpha=False)
   images.append(Image.frombytes('RGB',[pix.width,pix.height],pix.samples))
  spread=Image.new('RGB',(sum(i.width for i in images),max(i.height for i in images)), 'white');x=0
  for i in images:spread.paste(i,(x,0));x+=i.width
